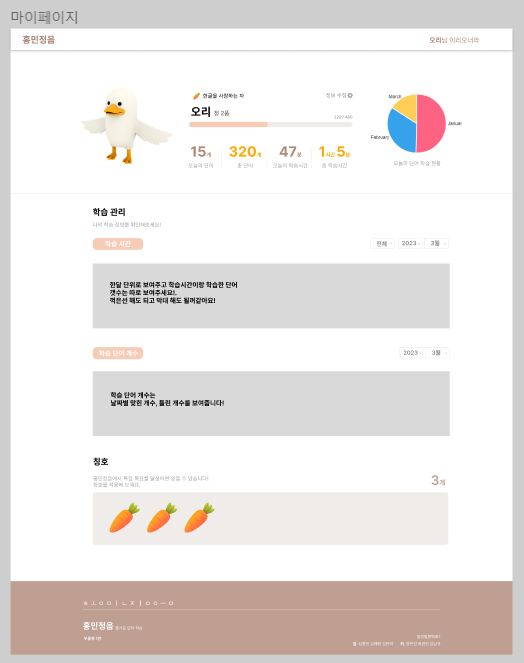
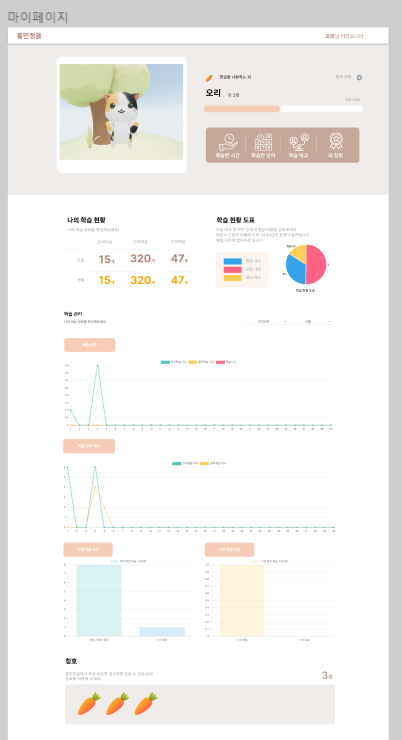
Feat : 산출물 업데이트

diff --git a/Output/README.md b/Output/README.md
@@ -23,11 +23,11 @@
 
 ### 개발 동기
 
-![기획서 사진1](assets/기획서 사진1.png)
+![기획서 사진1](assets/기획서-사진1.png)
 
-![기획서 사진2](assets/기획서 사진2.png)
+![기획서 사진2](assets/기획서-사진2.png)
 
-![기획서 사진3](assets/기획서 사진3.png)
+![기획서 사진3](assets/기획서-사진3.png)
 
 - 코로나19로 인한 비대면 수업 증가
   - 전체 교과의 ‘보통학력 이상’ 비율 감소
@@ -128,7 +128,13 @@
 - `도움받기` 누르면 초성 힌트 제공
 - 건너뛰기, 그만하기 버튼으로 학습 끝낼 수 있음
 - 결과창 : O, Δ, X 로 보여주기
-- 한 문제당  O는 10exp, Δ는 5exp
+- 문제는 난이도에 따라 다른 점수 부여
+  - 초급 : 10exp
+  - 중급 : 15exp
+  - 고급 : 20exp
+  - 전체 : 10exp
+  - 귀뜸 사용 : 5exp
+- 정답/오답 모달에서 TTS를 통해 단어와 뜻 음성 제공
 
 ### 학습2. 문맥 학습 (문맥 도감)
 
@@ -143,8 +149,10 @@
 - 맞은 문제는 문맥 도감에서 획득
 - DB에 단어 + 뜻 3개 + 문장 3개로 구성되어 있음
 - 한 세트(5문제) 끝나고 DB에 요청
+- 문맥학습은 한 문제당 경험지 30exp
 
 ### 학습3. 과거시험
+![과거시험](assets/과거시험.png)
 
 - 마지막 주 주말마다 과거시험 진행
 - MAIN 페이지에서 과거시험 클릭 시 시험쳤는지 확인
@@ -153,24 +161,23 @@
 - 과거시험 10문제
   - 오지선다
   - 한문제당 30초
-- 결과 페이지에서 경험치( 1000 생각중 )와 점수(한 문제당 10점)를 보여줌
-- 다 맞힌 사람 ⇒ 장원급제 ⇒ 칭호(뱃지) 획득
+- 결과 페이지에서 경험치와 점수를 보여줌
+- 80점 이상인 사람 ⇒ 장원급제 ⇒ 칭호(뱃지) 획득
 - 시험이 끝나면 (시험기간이 끝) MAIN페이지와 공지사항에서 장원급제한 사람 볼 수 있음.
-- MAIN 페이지에서 시험 공고와 시험 결과 공고를 띄어줌. ( 7일 동안 안뜨게 가능 )
+- MAIN 페이지에서 시험 공고와 시험 결과 공고를 띄어줌.
 
 ## 2. 문맥 도감 ( 100개 )
 
 ![문맥도감](assets/문맥도감.png)
 
 - 매일 무제한 획득 가능
-- 레어카드 6장 
+- 레어카드 6장 (레어 카드의 확률은 일반 카드보다 낮음)
   - 권민 : 27 금색
   - 은진: 73은색
   - 애림: 37핑크색
   - 남규: 83짙은파랑색
   - 홍민: 97보라색
   - 찬희: 53초록색
-
 - 매번 랜덤 5문제 출제
 
 ## 3. 오늘의 추천 단어
@@ -178,7 +185,8 @@
 ![추천단어](assets/추천단어.png)
 
 - 뉴스 크롤링으로 키워드 추출
-- 단어, 뜻 제공
+- 워드 클라우드 형태로 제공.
+- 단어 클릭 시 뜻, 예제 제공
 
 ## 4. 사전
 
@@ -205,8 +213,8 @@
 
 ### 복습 (단어 detail 카드)
 
-- 단어를 누르면 넘기는 카드형식으로 보여주고 TTS 적용가능
-- detail card는 자동 플레이 기능 없음
+- 단어를 누르면 넘기는 카드형식으로 보여주고 TTS 사용 가능
+
 - 단어 클릭시 detail card 보임
 
 ## 6. 사용자
@@ -216,6 +224,8 @@
 - 하루 총합 맞은단어, 틀린단어, 세모는 자동으로 초기화
 
 ### 회원가입
+
+![회원가입](assets/회원가입.png)
 
 - 별명 (닉네임)
 - 계정명 (아이디)
@@ -228,59 +238,61 @@
 
 - 정_품으로 9단계로 구성 (종_품 제외)
 - 등급이 올라가기 위한 경험치 2배씩 커짐 100 200 400 800 1600 … 25600
-- 맞춘 문제 한 문제당 경험치 10exp (복습하기에서는 X, 단어학습)
-- 문맥학습은 한 문제당 경험지 30exp
 
 ### 칭호(뱃지)
 
 : 획득한 것만 보여주기 [ 그림, 날짜, 이름, 방법, 장착하기 버튼 ]
 
-- 과거 시험
+- 새내기 : 처음 입문시 획득
 
-  3단계로 구성
+- 출석 누적
+  - 서당개 : 10일 누적 출석
+  - 유생 : 30일 누적 출석
+  - 선비 : 90일 누적 출석
+  - 승지 : 365일 누적 출석
 
-  매달 마지막주 주말 (이틀간)
+- 연속 출석
+  - 집현전 막내 : 10일 연속 출석
+  - 집현전 학자 : 30일 연속 출석
+  - 세종대왕님께 눈도장 : 90일 연속 출석
+  - 세종대왕님의 애제자 : 365일 연속 출석
 
-  단계 당 10문제 [문제는 만들예정]
-
-  - 성균관 유생, 장원급제 등으로 칭호 줌
-
-- 출석
-
-  - 첫 로그인시 새싹🌱
-  - 10, 30, 90, 365일 누적
-  - 10, 30, 90, 365일 연속
-
-- 학습시간
-
-  - 10, 24, 72, 360시간
+- 학습 시간
+  - 석봉이는 붓잡는 중 : 1시간 학습
+  - 석봉이는 글쓰는 중 : 24시간 학습
+  - 석봉이는 책 내는 중 : 72시간 학습
+  - 석봉이는 떡도 써는 중 : 360시간 학습
 
 - 도감
+  - 문맥 훈장님 : 도감전체 획득
+  - 문맥 수집가 : 레어 카드 전체 획득
 
-  - 100개 다 모으기
-  - 레어카드 다 모으기
+- 과거 시험
+  - 장원급제 : 제 1회 과거시험 우수자(80점 이상)
 
 - 이스터에그
 
-  - 한글날 접속 시 ‘한글을 사랑하는 자’
-  - 세종대왕님 생신 5/15 ‘세종대왕을 사랑하는 자’
-  - 특정 상호작용 시 얻을 수 있는 칭호 존재(캐릭터 100번 클릭 - 말랑말랑)
-  - 발표날 접속자 ‘발 빠른 사람’
+  - 한글을 사랑하는 자 : 한글날 접속 시
+  - 세종대왕을 사랑하는 자 : 세종대왕님 생신 5/15
+  - 말랑말랑 희귀 소지품 : 특정 상호작용 시 얻을 수 있는 칭호 존재(캐릭터 100번 클릭 - 말랑말랑)
+  - 일찍 일어나는 새 : 2023.03.27 ~ 04.02 첫 일주일간 이벤트
 
 ### 학습시간
 
-- 오늘 학습시간 / 총 학습시간 / 오늘 학습 단어 / 총 학습 단어 / 오늘 획득한 도감 / 총 획득한 도감 
+- 오늘 학습시간 / 총 학습시간
+- 오늘 학습 단어 / 총 학습 단어
+- 오늘 획득한 도감 / 총 획득한 도감 
 - 오늘 나의 맞은 단어 / 틀린 단어 / 세모
 - 한달 나의 공부시간 평균
 - 오늘 학습한 사용자의 평균 시간과 비교
 
 
-### 학습 달력 ( 한달 )
+### 학습 통계
+
+![학습 통계](assets/학습통계.png)
 
 - 학습시간, 학습 단어개수 한달치 그래프로 보여주기
-
-[추가] 다른 사용자들의 통계와 비교
-
+-  다른 사용자들의 통계와 비교
 - ‘오늘 공부한 사용자’들의 학습시간 평균
 - ‘이번달 나의 학습시간 평균(일일 학습량)
 - ‘오늘 나의 학습시간’
@@ -288,32 +300,35 @@
 ---
 
 
-
-
-
 # 기능 명세서
 
-![1_page-0001](assets/1_page-0001.jpg)![1_page-0002](assets/1_page-0002.jpg)
+![1_page-0001](assets/기능_명세서(홍민정음)1.png) 
 
-![1_page-0003](assets/1_page-0003.jpg)
+![1_page-0002](assets/기능_명세서(홍민정음)2.png)
 
-![1_page-0004](assets/1_page-0004.jpg)
+![1_page-0003](assets/기능_명세서(홍민정음)3.png)
+
+![1_page-0004](assets/기능_명세서(홍민정음)4.png)
+
+![1_page-0005](assets/기능_명세서(홍민정음)5.png)
 
 # API 명세서
 
-![api1](assets/api1.PNG)
+![api1](assets/api1.png)
 
-![api2](assets/api2.PNG)
+![api2](assets/api2.png)
 
-<img src="assets/api3.PNG" alt="api3" style="zoom:60%;" />
+![api3](assets/api3.png)
 
-<img src="assets/api4.PNG" alt="api4" style="zoom:60%;" />
+![api4](assets/api4.png)
 
-![api5](assets/api5.PNG)
+![api5](assets/api5.png)
 
-![api6](assets/api6.PNG)
+![api6](assets/api6.png)
 
-![api7](assets/api7.PNG)
+![api7](assets/api7.png)
+
+![api8](assets/api8.png)
 
 # ERD
 
